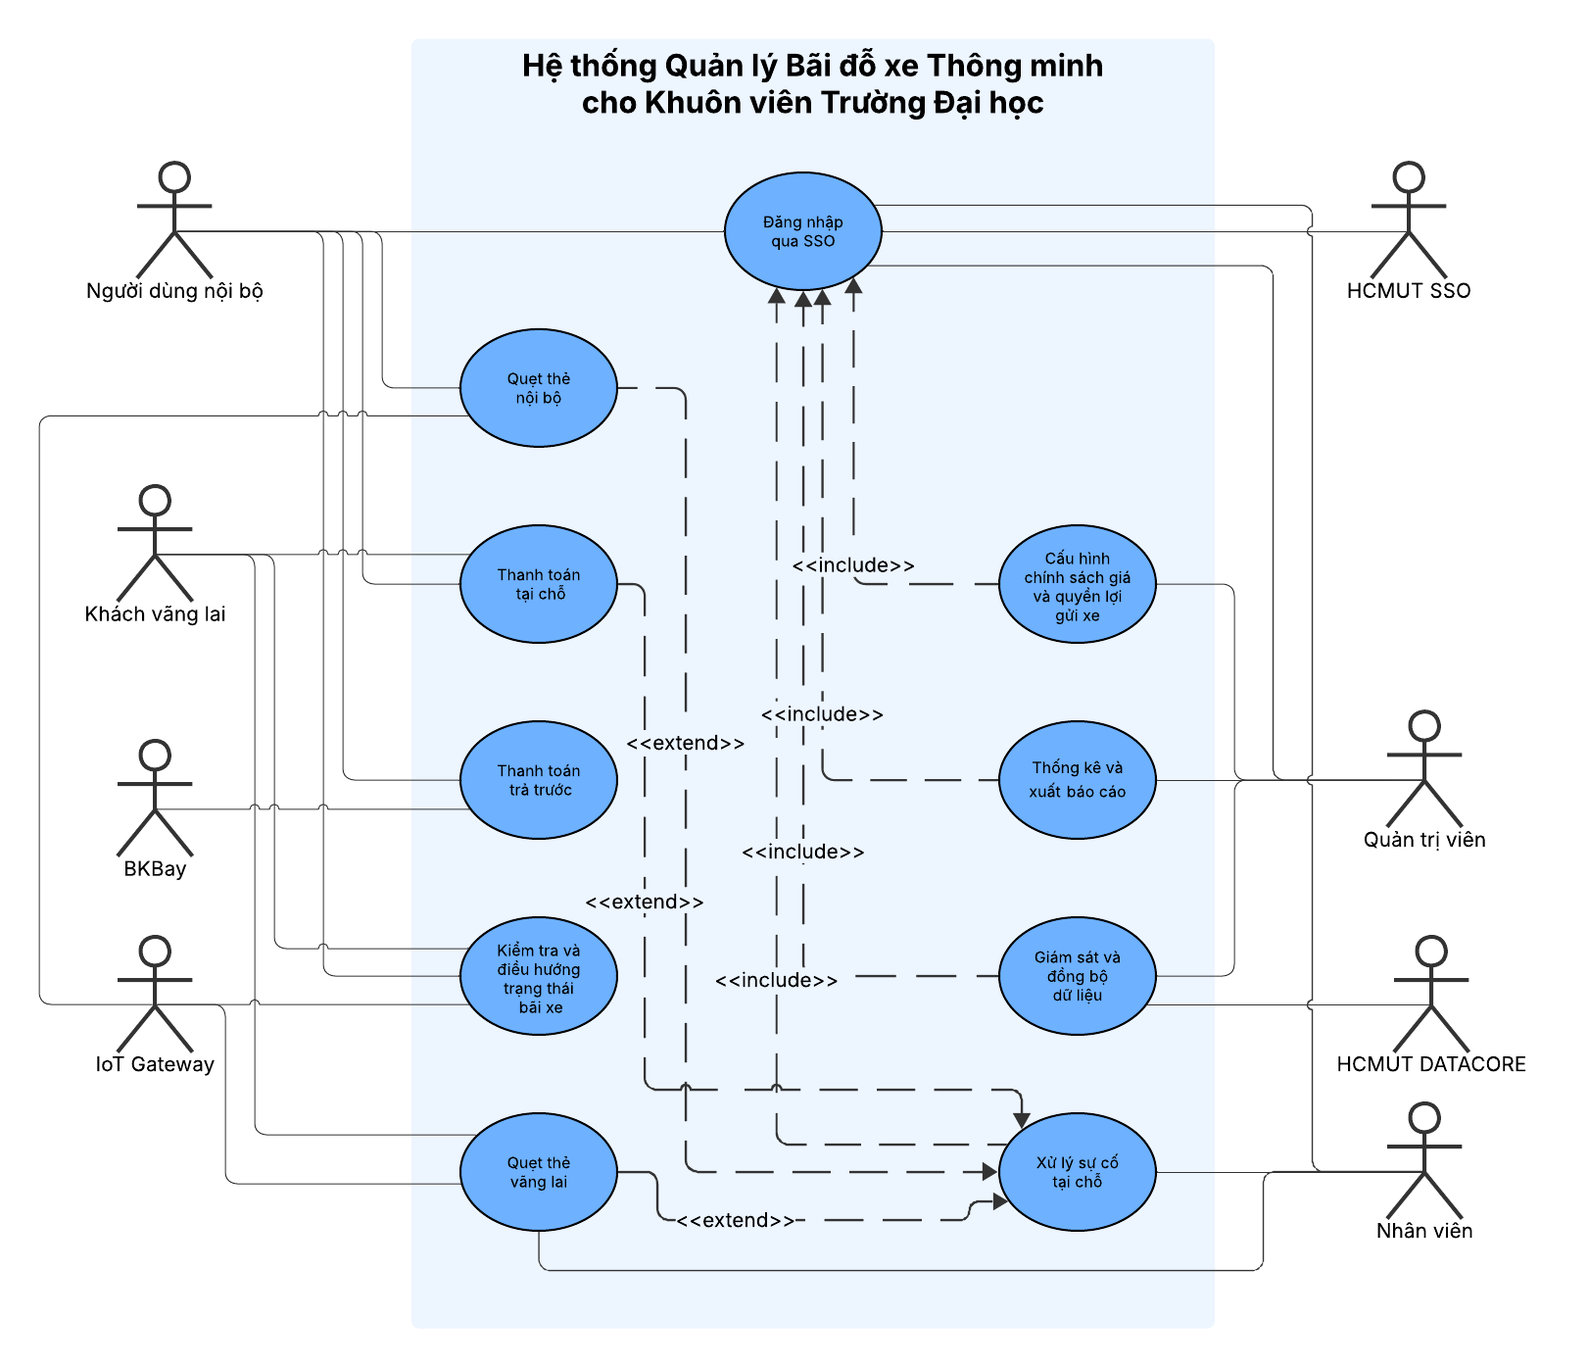
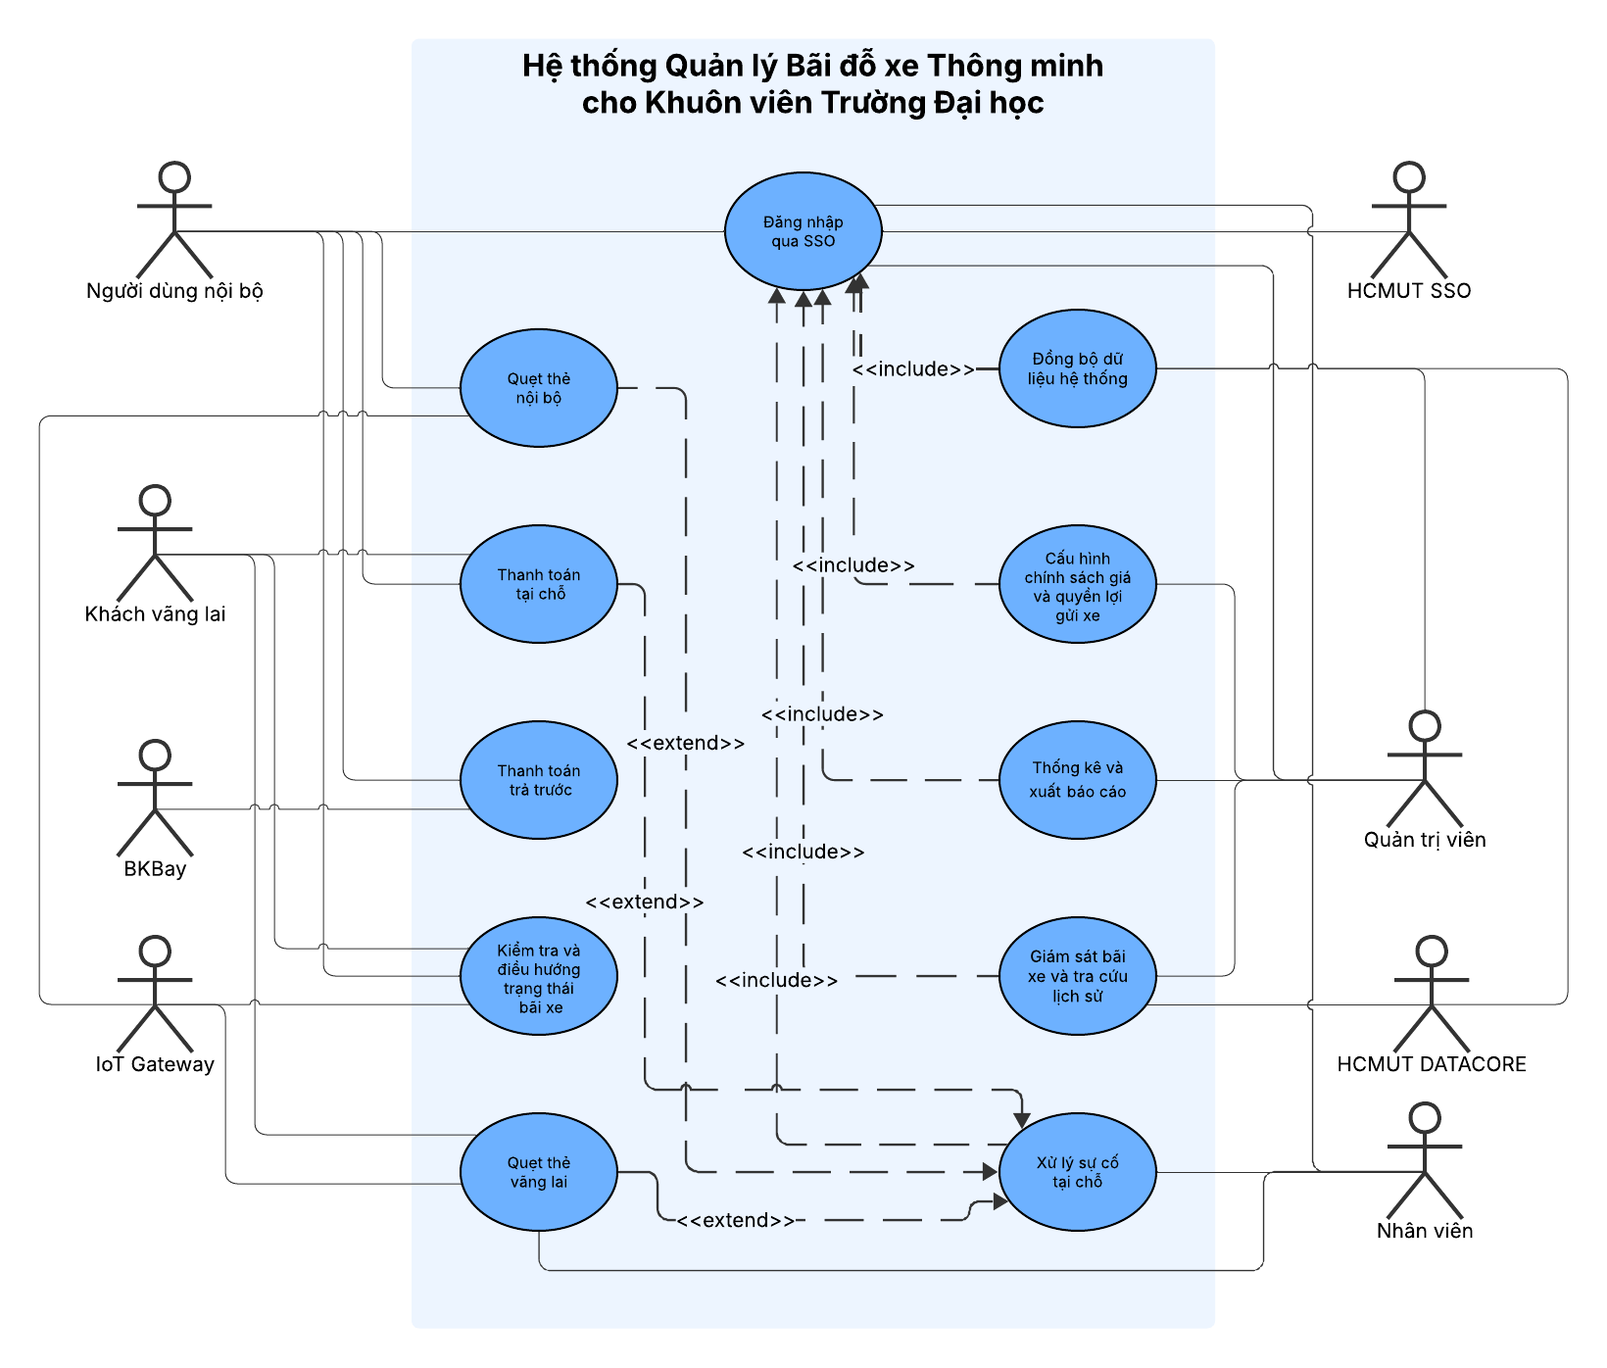
final submission

diff --git a/Contents/Main/task4.tex b/Contents/Main/task4.tex
@@ -1,0 +1,269 @@
+\section{Task 4}
+
+\subsection{\textbf{A working demonstration (by sequence of screens)}}
+
+Phần này trình bày working demonstration của hệ thống web theo chuỗi màn hình thực tế đã được triển khai trong mã nguồn. Các luồng được mô tả tuần tự theo từng nhóm người dùng và bám theo các chức năng hiện có trên giao diện web.
+
+\subsubsection{Chuỗi màn hình 1: Truy cập hệ thống từ trang chủ}
+
+\textbf{Bước 1.} Người dùng truy cập trang chủ của hệ thống để xem phần giới thiệu, các lợi ích chính của bãi đậu xe thông minh và nút điều hướng đến trang đăng nhập.
+
+\begin{figure}[H]
+	\centering
+	\includegraphics[width=1\linewidth]{Images/Task4/task4_home_overview.png} 
+	\caption{Trang chủ của hệ thống Smart Parking}
+\end{figure}
+
+\textbf{Bước 2.} Khi chọn nút bắt đầu, hệ thống chuyển sang trang đăng nhập. Tại đây người dùng có thể chọn đúng loại tài khoản gồm HCMUT, quản trị viên hoặc nhân viên vận hành.
+
+\begin{figure}[H]
+	\centering
+	\includegraphics[width=1\linewidth]{Images/Task4/task4_login_role_selection.png} 
+	\caption{Trang đăng nhập với lựa chọn loại tài khoản}
+\end{figure}
+
+\subsubsection{Chuỗi màn hình 2: Luồng sinh viên đăng nhập và theo dõi trạng thái bãi xe}
+
+\textbf{Bước 1.} Sinh viên chọn nhóm tài khoản HCMUT, nhập thông tin đăng nhập hoặc dùng tài khoản demo để vào hệ thống.
+
+\begin{figure}[H]
+	\centering
+	\includegraphics[width=1\linewidth]{Images/Task4/task4_student_login.png} 
+	\caption{Sinh viên đăng nhập vào hệ thống}
+\end{figure}
+
+\textbf{Bước 2.} Sau khi đăng nhập thành công, hệ thống hiển thị dashboard của sinh viên. Màn hình này cho biết số chỗ trống, vai trò người dùng, trạng thái gói gửi xe, sơ đồ bãi đậu xe, tần suất đăng nhập và các hoạt động gần đây.
+
+\begin{figure}[H]
+	\centering
+	\includegraphics[width=1\linewidth]{Images/Task4/task4_student_dashboard.png} 
+	\caption{Dashboard của sinh viên sau khi đăng nhập}
+\end{figure}
+
+\textbf{Bước 3.} Từ dashboard, sinh viên mở trang tình trạng bãi để xem sơ đồ các khu A, B, C, D. Các ô được phân biệt rõ giữa trạng thái còn trống, đã đầy và vị trí đang được gán cho người dùng.
+
+\begin{figure}[H]
+	\centering
+	\includegraphics[width=1\linewidth]{Images/Task4/task4_student_parking_map.png} 
+	\caption{Trang tình trạng bãi xe với sơ đồ các vị trí đậu}
+\end{figure}
+
+\textbf{Bước 4.} Ở cùng màn hình này, hệ thống còn mô phỏng kết quả quét thẻ nội bộ. Sau khi quét người dùng, hệ thống hiển thị thông tin cá nhân, biển số xe, giờ vào và vị trí được gán để minh họa luồng check-in nội bộ.
+
+\begin{figure}[H]
+	\centering
+	\includegraphics[width=1\linewidth]{Images/Task4/task4_student_checkin_result.png} 
+	\caption{Kết quả quét thẻ nội bộ và gán chỗ đậu cho sinh viên}
+\end{figure}
+
+\textbf{Bước 5.} Khi rời bãi, người dùng tiếp tục thao tác check-out trên cùng khu vực mô phỏng. Hệ thống cập nhật giờ ra và kết thúc phiên gửi xe.
+
+\begin{figure}[H]
+	\centering
+	\includegraphics[width=1\linewidth]{Images/Task4/task4_student_checkout_result.png} 
+	\caption{Màn hình minh họa check-out của người dùng nội bộ}
+\end{figure}
+
+\subsubsection{Chuỗi màn hình 3: Luồng sinh viên thanh toán gói gửi xe hàng tháng}
+
+\textbf{Bước 1.} Sinh viên truy cập trang thanh toán để xem gói gửi xe hiện tại, thời gian hiệu lực và tổng chi phí cần thanh toán cho chu kỳ tháng.
+
+\begin{figure}[H]
+	\centering
+	\includegraphics[width=1\linewidth]{Images/Task4/task4_student_payment_overview.png} 
+	\caption{Trang thanh toán gói gửi xe hàng tháng của sinh viên}
+\end{figure}
+
+\textbf{Bước 2.} Khi nhấn BKPay, hệ thống mở cửa sổ thanh toán QR. Màn hình này thể hiện số tiền thanh toán, mã QR, thời gian hết hạn và nút xác nhận đã thanh toán.
+
+\begin{figure}[H]
+	\centering
+	\includegraphics[width=1\linewidth]{Images/Task4/task4_student_bkpay_qr.jpeg} 
+	\caption{Popup QR BKPay cho thanh toán gói tháng}
+\end{figure}
+
+\subsubsection{Chuỗi màn hình 4: Luồng sinh viên xem lịch sử và hồ sơ cá nhân}
+
+\textbf{Bước 1.} Người dùng mở trang lịch sử để xem các phiên gửi xe đã phát sinh. Hệ thống hiển thị ngày, giờ vào, giờ ra, vị trí đậu, thời lượng, loại thẻ, mức phí và trạng thái giao dịch.
+
+\begin{figure}[H]
+	\centering
+	\includegraphics[width=1\linewidth]{Images/Task4/task4_student_history.png} 
+	\caption{Trang lịch sử gửi xe của sinh viên}
+\end{figure}
+
+\textbf{Bước 2.} Người dùng tiếp tục vào trang hồ sơ để kiểm tra thông tin cá nhân, email, số điện thoại, biển số xe, mã định danh và các tùy chọn thông báo, bảo mật.
+
+\begin{figure}[H]
+	\centering
+	\includegraphics[width=1\linewidth]{Images/Task4/task4_student_profile.png} 
+	\caption{Trang hồ sơ cá nhân của người dùng}
+\end{figure}
+
+\subsubsection{Chuỗi màn hình 5: Luồng giảng viên theo dõi giới hạn truy cập và mua thêm lượt}
+
+\textbf{Bước 1.} Giảng viên đăng nhập bằng tài khoản HCMUT và được chuyển đến dashboard có thông tin số chỗ trống cùng thẻ thống kê giới hạn truy cập theo tháng.
+
+\begin{figure}[H]
+	\centering
+	\includegraphics[width=1\linewidth]{Images/Task4/task4_lecturer_dashboard.png} 
+	\caption{Dashboard dành cho giảng viên}
+\end{figure}
+
+\textbf{Bước 2.} Tại trang tần suất đăng nhập, giảng viên theo dõi biểu đồ số lượt ra vào theo tháng, lịch sử ra vào gần đây và mức sử dụng gói giới hạn truy cập.
+
+\begin{figure}[H]
+	\centering
+	\includegraphics[width=1\linewidth]{Images/Task4/task4_lecturer_frequency.png} 
+	\caption{Trang tần suất đăng nhập và giới hạn truy cập của giảng viên}
+\end{figure}
+
+\textbf{Bước 3.} Nếu cần thêm lượt vào bãi, giảng viên truy cập trang thanh toán, nhập số lượt cần mua và thực hiện thanh toán qua BKPay.
+
+\begin{figure}[H]
+	\centering
+	\includegraphics[width=1\linewidth]{Images/Task4/task4_lecturer_payment.png} 
+	\caption{Trang mua thêm lượt gửi xe cho giảng viên}
+\end{figure}
+
+\textbf{Bước 4.} Sau khi chọn thanh toán, hệ thống tiếp tục hiển thị QR BKPay tương tự như luồng sinh viên nhưng áp dụng cho giao dịch mua thêm lượt sử dụng.
+
+\begin{figure}[H]
+	\centering
+	\includegraphics[width=1\linewidth]{Images/Task4/task4_lecturer_bkpay_qr.jpeg} 
+	\caption{Popup QR BKPay cho giao dịch mua thêm lượt của giảng viên}
+\end{figure}
+
+\subsubsection{Chuỗi màn hình 6: Luồng nhân viên vận hành kiểm soát xe vãng lai}
+
+\textbf{Bước 1.} Nhân viên đăng nhập bằng tài khoản vận hành để truy cập dashboard dành cho ca trực bãi xe.
+
+\begin{figure}[H]
+	\centering
+	\includegraphics[width=1\linewidth]{Images/Task4/task4_employee_dashboard.png} 
+	\caption{Dashboard dành cho nhân viên vận hành}
+\end{figure}
+
+\textbf{Bước 2.} Từ trang tình trạng bãi, nhân viên sử dụng khu vực mô phỏng quét khách để tạo phiên gửi xe tạm thời cho xe vãng lai. Màn hình thể hiện mã thẻ tạm, biển số, giờ vào và vị trí được gán.
+
+\begin{figure}[H]
+	\centering
+	\includegraphics[width=1\linewidth]{Images/Task4/task4_employee_visitor_checkin.png} 
+	\caption{Nhân viên tạo phiên gửi xe cho khách vãng lai}
+\end{figure}
+
+\textbf{Bước 3.} Khi khách ra bãi, nhân viên thao tác check-out. Màn hình minh họa phần thanh toán tại chỗ cho khách vãng lai và cập nhật kết thúc phiên gửi xe.
+
+\begin{figure}[H]
+	\centering
+	\includegraphics[width=1\linewidth]{Images/Task4/task4_employee_visitor_checkout.png} 
+	\caption{Nhân viên xử lý check-out và thanh toán tại chỗ cho khách}
+\end{figure}
+
+\subsubsection{Chuỗi màn hình 7: Luồng nhân viên báo cáo và xử lý sự cố tại chỗ}
+
+\textbf{Bước 1.} Nhân viên mở trang bảo trì để xem danh sách các sự cố hiện có, thống kê số lỗi theo trạng thái và bộ lọc theo khu vực, mức độ và từ khóa tìm kiếm.
+
+\begin{figure}[H]
+	\centering
+	\includegraphics[width=1\linewidth]{Images/Task4/task4_employee_maintenance_list.png} 
+	\caption{Trang bảo trì và danh sách sự cố của nhân viên}
+\end{figure}
+
+\textbf{Bước 2.} Khi phát hiện lỗi mới, nhân viên nhấn nút báo cáo lỗi mới. Hệ thống mở biểu mẫu để nhập loại sự cố, khu vực, vị trí, mức độ nghiêm trọng, mô tả chi tiết và tệp đính kèm.
+
+\begin{figure}[H]
+	\centering
+	\includegraphics[width=1\linewidth]{Images/Task4/task4_employee_report_incident.jpeg} 
+	\caption{Biểu mẫu báo cáo sự cố mới của nhân viên}
+\end{figure}
+
+\textbf{Bước 3.} Sau khi gửi, hệ thống thêm bản ghi sự cố vào danh sách để phục vụ theo dõi và cập nhật trạng thái xử lý.
+
+\begin{figure}[H]
+	\centering
+	\includegraphics[width=1\linewidth]{Images/Task4/task4_employee_incident_submitted.png} 
+	\caption{Danh sách sự cố sau khi nhân viên gửi báo cáo}
+\end{figure}
+
+\subsubsection{Chuỗi màn hình 8: Luồng quản trị viên theo dõi vận hành hệ thống}
+
+\textbf{Bước 1.} Quản trị viên đăng nhập bằng tài khoản quản trị và được chuyển đến dashboard tổng quan. Màn hình hiển thị số chỗ trống, vai trò quản trị viên, sơ đồ bãi xe và tần suất truy cập.
+
+\begin{figure}[H]
+	\centering
+	\includegraphics[width=1\linewidth]{Images/Task4/task4_admin_dashboard.png} 
+	\caption{Dashboard tổng quan dành cho quản trị viên}
+\end{figure}
+
+\textbf{Bước 2.} Quản trị viên truy cập trang bảo trì để giám sát toàn bộ danh sách sự cố, lọc dữ liệu và cập nhật trạng thái từ chưa xử lý sang đang xử lý hoặc đã xử lý.
+
+\begin{figure}[H]
+	\centering
+	\includegraphics[width=1\linewidth]{Images/Task4/task4_admin_maintenance_management.png} 
+	\caption{Trang quản lý sự cố của quản trị viên}
+\end{figure}
+
+\textbf{Bước 3.} Quản trị viên cũng có thể vào trang hồ sơ để kiểm tra thông tin tài khoản vận hành hệ thống và các tùy chọn bảo mật.
+
+\begin{figure}[H]
+	\centering
+	\includegraphics[width=1\linewidth]{Images/Task4/task4_admin_profile.png} 
+	\caption{Trang hồ sơ của quản trị viên}
+\end{figure}
+
+\subsubsection{Kết luận cho phần working demonstration}
+
+Thông qua chuỗi màn hình trên, phiên bản web hiện tại đã minh họa được các luồng sử dụng chính đã có trong mã nguồn: truy cập hệ thống, đăng nhập theo vai trò, theo dõi trạng thái bãi xe, mô phỏng check-in/check-out, thanh toán qua BKPay, xem lịch sử, quản lý hồ sơ và xử lý sự cố vận hành.
+
+\subsection{\textbf{Sử dụng Generative AI}}
+
+Trong đồ án này, Generative AI được sử dụng như một công cụ hỗ trợ. Việc sử dụng được khai báo rõ ràng như sau:
+
+\begin{itemize}
+	\item \textbf{Công cụ sử dụng:} Nhóm có sử dụng các công cụ Generative AI để hỗ trợ gợi ý nội dung, hỗ trợ lập trình và hỗ trợ trình bày báo cáo.
+	
+	\item \textbf{Phạm vi sử dụng trong quá trình phát triển:}
+	\begin{itemize}
+		\item Gợi ý ý tưởng ban đầu cho giao diện và cách tổ chức chức năng của hệ thống web.
+		\item Hỗ trợ sinh nháp mã cho một số phần frontend như trang đăng nhập, bố cục dashboard, bảng dữ liệu, biểu mẫu, popup thanh toán và một số giao diện liên quan đến bảo trì.
+		\item Gợi ý cách tổ chức component, cấu trúc mã nguồn và cách kết nối các luồng giao diện với dữ liệu mô phỏng hoặc API.
+		\item Hỗ trợ chỉnh sửa câu lệnh, cú pháp và cách trình bày mã trong quá trình hoàn thiện giao diện.
+	\end{itemize}
+	
+	\item \textbf{Phạm vi sử dụng trong quá trình viết báo cáo:}
+	\begin{itemize}
+		\item Gợi ý cách tổ chức nội dung cho phần báo cáo.
+		\item Hỗ trợ diễn đạt lại câu văn để nội dung rõ ràng, mạch lạc hơn.
+		\item Hỗ trợ viết nháp cho phần mô tả luồng chức năng và phần working demonstration.
+		\item Hỗ trợ rà soát, nhận xét và đối chiếu nội dung đã làm, ví dụ như danh sách use case, các luồng chức năng, các màn hình giao diện và mức độ đầy đủ giữa phần hiện thực với phần mô tả trong báo cáo.
+		\item Hỗ trợ định dạng nội dung bằng \LaTeX{}.
+	\end{itemize}
+	
+	\item \textbf{Mức độ đóng góp của AI:} AI chỉ đóng vai trò hỗ trợ trong việc gợi ý, tạo nháp và tăng tốc quá trình thực hiện. AI không được sử dụng như nguồn đầu ra cuối cùng mà không qua kiểm tra.
+	
+	\item \textbf{Phần công việc do nhóm tự thực hiện:}
+	\begin{itemize}
+		\item Tự đọc và phân tích yêu cầu của đồ án.
+		\item Tự chọn lọc, chỉnh sửa và tích hợp các phần gợi ý từ AI vào hệ thống.
+		\item Tự kiểm tra lại mã nguồn, luồng chức năng và giao diện thực tế của web.
+		\item Tự chụp ảnh minh họa, đối chiếu nội dung báo cáo với hệ thống đang chạy và hoàn thiện bản nộp cuối cùng.
+	\end{itemize}
+	
+	\item \textbf{Trách nhiệm học thuật:} Nhóm chịu trách nhiệm hoàn toàn đối với phần hiện thực, phần phân tích và toàn bộ nội dung báo cáo đã nộp. Mọi nội dung do AI hỗ trợ đều đã được nhóm xem xét, chỉnh sửa và xác nhận lại trước khi sử dụng.
+\end{itemize}
+
+Vì vậy, Generative AI chỉ đóng vai trò là công cụ hỗ trợ trong việc tìm ý tưởng, tạo nháp và tăng tốc quá trình làm việc. Nhóm chịu trách nhiệm hoàn toàn đối với phần hiện thực, phần phân tích và nội dung báo cáo đã nộp.
+
+\newpage
+
+\section{Tài liệu tham khảo}
+
+\begin{enumerate}
+	\item Object Management Group (OMG), \textit{OMG Unified Modeling Language (OMG UML), Version 2.5.1}, 2017. Truy cập tại: \texttt{https://www.omg.org/spec/UML/2.5.1/PDF}
+
+	\item IEEE Computer Society, \textit{Guide to the Software Engineering Body of Knowledge (SWEBOK Guide)}. Truy cập tại: \texttt{https://www.computer.org/education/bodies-of-knowledge/software-engineering}
+	
+	\item Ian Sommerville, \textit{Software Engineering}, 10th Edition, Pearson, 2015.
+\end{enumerate}
+

diff --git a/Contents/Sub/member-contribution.tex b/Contents/Sub/member-contribution.tex
@@ -3,25 +3,27 @@
 \section*{\Large Đóng góp chi tiết của các thành viên}
 \label{sec:Đóng góp chi tiết của các thành viên}
 
+\vspace{-0.5cm}
+
 \begin{center}
-\begin{tabular}{|>{\raggedright\arraybackslash}m{3.5cm}|>{\raggedright\arraybackslash}m{9cm}|>{\centering\arraybackslash}m{3cm}|}
+\begin{tabular}{|>{\raggedright\arraybackslash}m{4cm}|>{\raggedright\arraybackslash}m{11cm}|>{\centering\arraybackslash}m{2cm}|}
 \hline
-    \makecell[c]{\textbf{Họ Tên}} & \makecell[c]{\textbf{Công Việc Chi Tiết}} & \makecell[c]{\textbf{Tỉ Lệ Đóng Góp}} \\ \hline
+    \makecell[c]{\textbf{Họ Tên}} & \makecell[c]{\textbf{Công Việc Chi Tiết}} & \makecell[c]{\textbf{Đóng Góp}} \\ \hline
   Nguyễn Duy Nhất &  
-    -Tổng hợp và viết báo cáo
+    -Tổng hợp
     
     -Mô tả Usecase cho toàn bộ hệ thống
     
     -Mô tả Usecase, sequence diagram và activity diagram cho uc Đăng nhập qua SSO (UC001)
     
-    -Class Diagram and Method Script&  100\% \\ 
+    -Class Diagram and Method Script, viết báo cáo cho phần demo&  100\% \\ 
 \hline
  Lưu Nguyễn Thanh Bình &  
     -Mô tả Usecase, sequence diagram và activity diagram cho uc  Quẹt thẻ nội bộ (UC002) 
     
     -Mô tả Usecase, sequence diagram và activity diagram cho uc  Quẹt thẻ vãng lai (UC003)
     
-    -Deployment view & 100\% \\ 
+    -Deployment view, xây dựng giao diện người dùng & 100\% \\ 
 \hline
  Trần Như Nhật Hoàng &  
     -Mô tả dự án  
@@ -30,7 +32,7 @@
     
     -Thực hiện UI design: Mockup
     
-    -Development view & 100\%\\ 
+    -Development view, xây dựng hệ thống backend & 100\%\\ 
 \hline
  Xà Gia Khánh &  
     -Yêu cầu phi chức năng 
@@ -39,28 +41,28 @@
     
     -Thực hiện UI design: Mockup 
     
-    -Deployment view& 100\% \\ 
+    -Deployment view, chuẩn bị slide thuyết trình & 100\% \\ 
 \hline
  Trần Hoàng Bá Huy &  
     -Mô tả Usecase, sequence diagram và activity diagram cho uc Giám sát và đồng bộ dữ liệu (UC009) 
     
     -Mô tả Usecase, sequence diagram và activity diagram cho uc Xử lý sự cố tại chỗ (UC010)
     
-    -Development view & 100\% \\ 
+    -Development view, xây dựng giao diện người dùng& 100\% \\ 
 \hline
  Ngô Hồ Quân &  
     -Mô tả Usecase, sequence diagram và activity diagram cho uc Thanh toán tại chỗ (UC004) 
     
     -Mô tả Usecase, sequence diagram và activity diagram cho uc Thanh toán trả trước (UC005)
     
-    -Class Diagram and Method Script & 100\% \\ 
+    -Class Diagram and Method Script, viết báo cáo cho phần demo & 100\% \\ 
 \hline
  Cao Quang Đôn &  
     -Mô tả Usecase, sequence diagram và activity diagram cho uc Kiểm tra và điều hướng trạng thái bãi xe (UC006) 
     
     -Mô tả Usecase, sequence diagram và activity diagram cho uc Thống kê và xuất báo cáo (UC008) 
     
-    -Class Diagram and Method Script& 100\% \\ 
+    -Class Diagram and Method Script, xây dựng hệ thống backend & 100\% \\ 
 \hline
 \end{tabular}
 \end{center}

diff --git a/Contents/Main/task1.tex b/Contents/Main/task1.tex
@@ -292,7 +292,7 @@ Các hệ thống tích hợp để hỗ trợ hoạt động của hệ thống
 \subsubsection{Bảng mô tả usecase}
 
 \textbf{Các use case cần mô tả: }
-
+\vspace{-0.3cm}
 \begin{center}
     \begin{tabular}{|c|l|m{7cm}|} \hline 
          \rule{0pt}{4ex}\textbf{Mã Usecase} & \textbf{Tên Usecase}& \textbf{Mô tả}\\[.2cm] \hline 
@@ -372,13 +372,11 @@ Các hệ thống tích hợp để hỗ trợ hoạt động của hệ thống
 
 % \newpage
 
-
 \ssssection{Bảng mô tả usecase Giám sát bãi xe và tra cứu lịch sử}
 
 \input{Contents/Main/usecase/9-giamsatbaixevatracuulichsu}
 
 % \newpage
-
 
 \ssssection{Bảng mô tả usecase Đồng bộ dữ liệu hệ thống}
 

diff --git a/main.tex b/main.tex
@@ -27,7 +27,7 @@
 % \newpage
 \input{Contents/Main/task2}
 \input{Contents/Main/task3}
-
+\input{Contents/Main/task4}
 %%%%%%%%%%%%%%%%%%% END MAIN CONTENT %%%%%%%%%%%%%%%%%%
 
 \newpage
